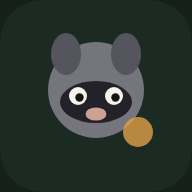
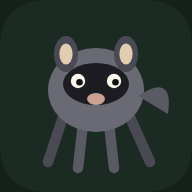
Make adult Jimothy match the viral short-spine raccoon look
Round compact body, long spindly legs, almost no neck — plus teen
foreshadowing, lope animation, and matching Dumpster Dive sprite.

Changed region(s): [[0.2188, 0.3125, 0.9062, 0.9062], [0.25, 0.1562, 0.75, 0.4062]]

diff --git a/js/raccoon.js b/js/raccoon.js
@@ -54,61 +54,102 @@ const RaccoonArt = (() => {
       <circle cx="88" cy="68" r="6" fill="#d9c4a8" opacity="0.35"/>
     `);
 
+  // Teen starts rounding out — foreshadowing the short-spine legend.
   const teen = () =>
     svg(`
-      <ellipse cx="60" cy="100" rx="34" ry="8" fill="#000" opacity="0.2"/>
-      <path d="M90 72 Q112 58 108 86 Q98 102 84 92" fill="#63636c"/>
-      <path d="M96 78 Q104 74 102 84" fill="none" stroke="#9a9aa4" stroke-width="3" stroke-linecap="round"/>
-      <ellipse cx="58" cy="74" rx="36" ry="30" fill="#6a6a74"/>
-      <circle cx="58" cy="40" r="27" fill="#767680"/>
-      <ellipse cx="34" cy="20" rx="10" ry="15" fill="#4f4f58"/>
-      <ellipse cx="82" cy="20" rx="10" ry="15" fill="#4f4f58"/>
-      <ellipse cx="34" cy="20" rx="5.5" ry="9" fill="#e6d0b4"/>
-      <ellipse cx="82" cy="20" rx="5.5" ry="9" fill="#e6d0b4"/>
-      <ellipse cx="58" cy="44" rx="23" ry="14" fill="#222228"/>
-      <circle cx="46" cy="40" r="4.5" fill="#f8f4ea"/>
-      <circle cx="70" cy="40" r="4.5" fill="#f8f4ea"/>
-      <circle cx="47" cy="40.5" r="2.2" fill="#121214"/>
-      <circle cx="71" cy="40.5" r="2.2" fill="#121214"/>
-      <circle cx="45.5" cy="39" r="1" fill="#fff" opacity="0.7"/>
-      <circle cx="69.5" cy="39" r="1" fill="#fff" opacity="0.7"/>
-      <ellipse cx="58" cy="50" rx="6.5" ry="4" fill="#c9a292"/>
-      <path d="M52 56 Q58 61 64 56" fill="none" stroke="#1e1e24" stroke-width="1.8"/>
-      <ellipse cx="38" cy="92" rx="10" ry="7" fill="#55555e"/>
-      <ellipse cx="78" cy="92" rx="10" ry="7" fill="#55555e"/>
-      <path d="M40 68 Q28 74 32 86" fill="none" stroke="#5a5a64" stroke-width="7" stroke-linecap="round"/>
+      <ellipse cx="60" cy="104" rx="30" ry="7" fill="#000" opacity="0.2"/>
+      <path d="M86 62 Q108 48 104 78 Q94 92 80 80" fill="#63636c"/>
+      <path d="M92 66 Q100 62 98 74 M94 72 Q102 68 100 80" fill="none" stroke="#9a9aa4" stroke-width="2.8" stroke-linecap="round"/>
+      <!-- longer legs -->
+      <path d="M42 70 L36 98" stroke="#55555e" stroke-width="5.5" stroke-linecap="round"/>
+      <path d="M54 72 L50 100" stroke="#5c5c64" stroke-width="5.5" stroke-linecap="round"/>
+      <path d="M68 72 L72 100" stroke="#5c5c64" stroke-width="5.5" stroke-linecap="round"/>
+      <path d="M78 70 L86 98" stroke="#55555e" stroke-width="5.5" stroke-linecap="round"/>
+      <ellipse cx="36" cy="100" rx="7" ry="4" fill="#4a4a54"/>
+      <ellipse cx="50" cy="102" rx="7" ry="4" fill="#4a4a54"/>
+      <ellipse cx="72" cy="102" rx="7" ry="4" fill="#4a4a54"/>
+      <ellipse cx="86" cy="100" rx="7" ry="4" fill="#4a4a54"/>
+      <!-- compact round body + head almost fused -->
+      <ellipse cx="60" cy="58" rx="30" ry="26" fill="#6a6a74"/>
+      <circle cx="60" cy="48" r="22" fill="#767680"/>
+      <ellipse cx="42" cy="30" rx="8" ry="12" fill="#4f4f58"/>
+      <ellipse cx="78" cy="30" rx="8" ry="12" fill="#4f4f58"/>
+      <ellipse cx="42" cy="30" rx="4.5" ry="7" fill="#e6d0b4"/>
+      <ellipse cx="78" cy="30" rx="4.5" ry="7" fill="#e6d0b4"/>
+      <ellipse cx="60" cy="50" rx="18" ry="12" fill="#222228"/>
+      <circle cx="50" cy="47" r="4" fill="#f8f4ea"/>
+      <circle cx="70" cy="47" r="4" fill="#f8f4ea"/>
+      <circle cx="51" cy="47.5" r="2" fill="#121214"/>
+      <circle cx="71" cy="47.5" r="2" fill="#121214"/>
+      <ellipse cx="60" cy="56" rx="5.5" ry="3.5" fill="#c9a292"/>
+      <path d="M54 60 Q60 64 66 60" fill="none" stroke="#1e1e24" stroke-width="1.6"/>
     `);
 
+  /**
+   * Adult Jimothy — the viral short-spine silhouette:
+   * round compact body, almost no neck, long spindly legs.
+   */
   const adult = (variant = "noble") => {
     const accent = variant === "rascal" ? "#d9844a" : "#6fbf84";
-    const smirk =
+    const mouth =
       variant === "rascal"
-        ? `<path d="M50 56 Q58 54 66 58" fill="none" stroke="#1e1e24" stroke-width="2"/>`
-        : `<path d="M50 56 Q58 62 66 56" fill="none" stroke="#1e1e24" stroke-width="2"/>`;
+        ? `<path d="M54 52 Q60 50 66 54" fill="none" stroke="#1e1e24" stroke-width="1.8"/>`
+        : `<path d="M54 53 Q60 57 66 53" fill="none" stroke="#1e1e24" stroke-width="1.8"/>`;
+    const flair =
+      variant === "rascal"
+        ? `<g opacity="0.9">
+            <path d="M78 40 l10 14 -12 2 z" fill="#e0a04a"/>
+            <path d="M80 44 h8" stroke="#c45c4a" stroke-width="2"/>
+          </g>`
+        : `<g opacity="0.85">
+            <ellipse cx="78" cy="36" rx="7" ry="4" fill="${accent}" transform="rotate(-20 78 36)"/>
+            <path d="M72 36 Q78 28 84 36" fill="none" stroke="#3d6b4f" stroke-width="1.5"/>
+          </g>`;
+
     return svg(`
-      <ellipse cx="60" cy="104" rx="38" ry="8" fill="#000" opacity="0.22"/>
-      <path d="M92 70 Q118 50 114 84 Q104 108 86 94" fill="#5e5e68"/>
-      <path d="M98 76 Q108 68 106 82 M100 84 Q108 78 106 90" fill="none" stroke="#a0a0aa" stroke-width="3.2" stroke-linecap="round"/>
-      <ellipse cx="56" cy="72" rx="40" ry="34" fill="#686872"/>
-      <circle cx="56" cy="36" r="30" fill="#74747e"/>
-      <ellipse cx="30" cy="14" rx="11" ry="16" fill="#4a4a54"/>
-      <ellipse cx="82" cy="14" rx="11" ry="16" fill="#4a4a54"/>
-      <ellipse cx="30" cy="14" rx="6" ry="10" fill="#e8d2b6"/>
-      <ellipse cx="82" cy="14" rx="6" ry="10" fill="#e8d2b6"/>
-      <ellipse cx="56" cy="40" rx="25" ry="15" fill="#1f1f26"/>
-      <circle cx="43" cy="36" r="5" fill="#faf6ec"/>
-      <circle cx="69" cy="36" r="5" fill="#faf6ec"/>
-      <circle cx="44.2" cy="36.6" r="2.4" fill="#101014"/>
-      <circle cx="70.2" cy="36.6" r="2.4" fill="#101014"/>
-      <circle cx="42.5" cy="35" r="1.1" fill="#fff" opacity="0.75"/>
-      <circle cx="68.5" cy="35" r="1.1" fill="#fff" opacity="0.75"/>
-      <ellipse cx="56" cy="47" rx="7.5" ry="4.5" fill="#c9a292"/>
-      ${smirk}
-      <ellipse cx="34" cy="94" rx="12" ry="8" fill="#505058"/>
-      <ellipse cx="78" cy="94" rx="12" ry="8" fill="#505058"/>
-      <path d="M34 66 Q18 74 24 90" fill="none" stroke="#565660" stroke-width="8" stroke-linecap="round"/>
-      <circle cx="78" cy="62" r="7" fill="${accent}" opacity="0.55"/>
-      <path d="M74 58 L82 58 M78 54 L78 62" stroke="#142019" stroke-width="1.5" opacity="0.35"/>
+      <ellipse cx="60" cy="108" rx="34" ry="6" fill="#000" opacity="0.22"/>
+
+      <!-- ringed tail out back -->
+      <path d="M88 58 Q112 42 108 70 Q100 86 84 74" fill="#5a5a64"/>
+      <path d="M94 56 Q104 48 102 62 M96 64 Q106 58 104 72 M98 72 Q106 68 104 80"
+            fill="none" stroke="#b0b0ba" stroke-width="3" stroke-linecap="round"/>
+
+      <!-- long front + hind legs (the signature lope) -->
+      <path d="M40 62 L28 102" stroke="#4f4f58" stroke-width="6" stroke-linecap="round"/>
+      <path d="M52 66 L46 104" stroke="#5a5a64" stroke-width="6" stroke-linecap="round"/>
+      <path d="M68 66 L74 104" stroke="#5a5a64" stroke-width="6" stroke-linecap="round"/>
+      <path d="M80 62 L94 102" stroke="#4f4f58" stroke-width="6" stroke-linecap="round"/>
+      <ellipse cx="28" cy="104" rx="8" ry="4.5" fill="#3a3a44"/>
+      <ellipse cx="46" cy="106" rx="8" ry="4.5" fill="#3a3a44"/>
+      <ellipse cx="74" cy="106" rx="8" ry="4.5" fill="#3a3a44"/>
+      <ellipse cx="94" cy="104" rx="8" ry="4.5" fill="#3a3a44"/>
+
+      <!-- one round potato body — head fused, short spine silhouette -->
+      <ellipse cx="60" cy="52" rx="34" ry="30" fill="#6a6a74"/>
+      <ellipse cx="48" cy="44" rx="10" ry="8" fill="#7a7a84" opacity="0.35"/>
+
+      <!-- ears perched on the orb -->
+      <ellipse cx="38" cy="26" rx="8" ry="12" fill="#4a4a54"/>
+      <ellipse cx="82" cy="26" rx="8" ry="12" fill="#4a4a54"/>
+      <ellipse cx="38" cy="26" rx="4.5" ry="7" fill="#e2cdb2"/>
+      <ellipse cx="82" cy="26" rx="4.5" ry="7" fill="#e2cdb2"/>
+
+      <!-- bandit mask across the front of the round body -->
+      <ellipse cx="60" cy="46" rx="22" ry="13" fill="#1c1c22"/>
+      <circle cx="48" cy="44" r="5" fill="#faf6ec"/>
+      <circle cx="72" cy="44" r="5" fill="#faf6ec"/>
+      <circle cx="49.2" cy="44.6" r="2.4" fill="#101014"/>
+      <circle cx="73.2" cy="44.6" r="2.4" fill="#101014"/>
+      <circle cx="47.5" cy="43" r="1.1" fill="#fff" opacity="0.8"/>
+      <circle cx="71.5" cy="43" r="1.1" fill="#fff" opacity="0.8"/>
+
+      <ellipse cx="60" cy="54" rx="6.5" ry="4" fill="#c9a292"/>
+      ${mouth}
+      ${flair}
+
+      <!-- tiny whisker ticks -->
+      <path d="M40 52 h-8 M40 56 h-7 M80 52 h8 M80 56 h7"
+            stroke="#d0d0d8" stroke-width="1.2" stroke-linecap="round" opacity="0.55"/>
     `);
   };
 

diff --git a/js/game.js b/js/game.js
@@ -242,14 +242,18 @@
         state.healthyMeals >= 3 &&
         state.discipline >= 45;
       state.adultVariant = goodCare ? "noble" : "rascal";
-      const title = goodCare ? "Noble Jimothy" : "Rascal Jimothy";
+      const title = goodCare ? "Saint Jimothy" : "Legend Jimothy";
       STAGE_META.adult.name = title;
-      say(goodCare ? "He became Noble Jimothy!" : "He became Rascal Jimothy!");
+      say(
+        goodCare
+          ? "Behold — Saint Jimothy, short-spine legend!"
+          : "Behold — Legend Jimothy, Ballard’s dumpster cryptid!"
+      );
       showMessage(
         "Fully Grown!",
         goodCare
-          ? "Your care paid off — Noble Jimothy tip-toes with class (and still steals snacks)."
-          : "Chaos wins — Rascal Jimothy is a dumpster legend with a mischievous streak."
+          ? "He grew into the famous look: round body, long lope, zero neck. Saint Jimothy has entered the chat."
+          : "He grew into the famous look: round body, long lope, zero neck. Legend Jimothy is ready for the headlines."
       );
     }
     if (prev !== state.stage) save();
@@ -308,7 +312,7 @@
     $("ageLabel").textContent = formatAge();
     const meta = STAGE_META[state.stage];
     if (state.stage === "adult") {
-      meta.name = state.adultVariant === "noble" ? "Noble Jimothy" : "Rascal Jimothy";
+      meta.name = state.adultVariant === "noble" ? "Saint Jimothy" : "Legend Jimothy";
     }
     $("stageChip").textContent = meta.label;
     $("stageName").textContent = state.alive ? meta.name : "Gone to the woods…";
@@ -321,6 +325,10 @@
     const wrap = $("raccoonWrap");
     wrap.classList.toggle("stubborn", state.stubborn && state.alive);
     wrap.classList.toggle("sick", state.sick && state.alive);
+    wrap.classList.toggle(
+      "jimothy-lope",
+      state.alive && state.stage === "adult" && !state.stubborn && !state.sick
+    );
     $("raccoon").dataset.stage = state.stage;
     $("raccoon").dataset.mood = state.stubborn ? "stubborn" : state.sick ? "sick" : "idle";
     $("raccoon").innerHTML = state.alive
@@ -577,13 +585,14 @@
     wireIcons();
     bind();
     load();
+    save({ touchTick: false });
     if (!localStorage.getItem(STORAGE_KEY)) {
       say("A warm egg. Something wiggles inside…");
     }
     // Ensure adult name meta is correct after load
     if (state.stage === "adult") {
       STAGE_META.adult.name =
-        state.adultVariant === "noble" ? "Noble Jimothy" : "Rascal Jimothy";
+        state.adultVariant === "noble" ? "Saint Jimothy" : "Legend Jimothy";
     }
     render();
     if (!state.alive) {

diff --git a/js/minigame.js b/js/minigame.js
@@ -299,43 +299,56 @@ const DumpsterDive = (() => {
   function drawPlayer(x, y) {
     ctx.save();
     ctx.translate(x, y);
-    // body
-    ctx.fillStyle = "#6f6f78";
+    // Short-spine Jimothy: round body, long legs, almost no neck
+    ctx.strokeStyle = "#4f4f58";
+    ctx.lineWidth = 5;
+    ctx.lineCap = "round";
     ctx.beginPath();
-    ctx.ellipse(0, 4, 22, 16, 0, 0, Math.PI * 2);
+    ctx.moveTo(-12, 0);
+    ctx.lineTo(-18, 16);
+    ctx.moveTo(-4, 2);
+    ctx.lineTo(-6, 18);
+    ctx.moveTo(4, 2);
+    ctx.lineTo(6, 18);
+    ctx.moveTo(12, 0);
+    ctx.lineTo(18, 16);
+    ctx.stroke();
+    ctx.fillStyle = "#3a3a44";
+    ctx.beginPath();
+    ctx.ellipse(-18, 18, 5, 3, 0, 0, Math.PI * 2);
+    ctx.ellipse(-6, 20, 5, 3, 0, 0, Math.PI * 2);
+    ctx.ellipse(6, 20, 5, 3, 0, 0, Math.PI * 2);
+    ctx.ellipse(18, 18, 5, 3, 0, 0, Math.PI * 2);
     ctx.fill();
-    // head
-    ctx.fillStyle = "#7a7a84";
+    // round body / head fused
+    ctx.fillStyle = "#6a6a74";
     ctx.beginPath();
-    ctx.arc(0, -14, 14, 0, Math.PI * 2);
+    ctx.ellipse(0, -4, 20, 17, 0, 0, Math.PI * 2);
+    ctx.fill();
+    // ears
+    ctx.fillStyle = "#4a4a54";
+    ctx.beginPath();
+    ctx.ellipse(-12, -18, 4, 6, -0.15, 0, Math.PI * 2);
+    ctx.ellipse(12, -18, 4, 6, 0.15, 0, Math.PI * 2);
     ctx.fill();
     // mask
-    ctx.fillStyle = "#222228";
+    ctx.fillStyle = "#1c1c22";
     ctx.beginPath();
-    ctx.ellipse(0, -12, 12, 7, 0, 0, Math.PI * 2);
+    ctx.ellipse(0, -6, 14, 8, 0, 0, Math.PI * 2);
     ctx.fill();
-    // eyes
     ctx.fillStyle = "#f7f3e8";
     ctx.beginPath();
-    ctx.arc(-5, -13, 2.5, 0, Math.PI * 2);
-    ctx.arc(5, -13, 2.5, 0, Math.PI * 2);
+    ctx.arc(-5, -7, 2.6, 0, Math.PI * 2);
+    ctx.arc(5, -7, 2.6, 0, Math.PI * 2);
     ctx.fill();
     ctx.fillStyle = "#121214";
     ctx.beginPath();
-    ctx.arc(-4.5, -12.5, 1.2, 0, Math.PI * 2);
-    ctx.arc(5.5, -12.5, 1.2, 0, Math.PI * 2);
+    ctx.arc(-4.5, -6.5, 1.2, 0, Math.PI * 2);
+    ctx.arc(5.5, -6.5, 1.2, 0, Math.PI * 2);
     ctx.fill();
-    // ears
-    ctx.fillStyle = "#55555e";
+    ctx.fillStyle = "#c9a292";
     ctx.beginPath();
-    ctx.ellipse(-10, -24, 4, 6, -0.2, 0, Math.PI * 2);
-    ctx.ellipse(10, -24, 4, 6, 0.2, 0, Math.PI * 2);
-    ctx.fill();
-    // paws
-    ctx.fillStyle = "#5c5c64";
-    ctx.beginPath();
-    ctx.ellipse(-16, 14, 7, 5, 0, 0, Math.PI * 2);
-    ctx.ellipse(16, 14, 7, 5, 0, 0, Math.PI * 2);
+    ctx.ellipse(0, -1, 4, 2.5, 0, 0, Math.PI * 2);
     ctx.fill();
     ctx.restore();
   }

diff --git a/styles.css b/styles.css
@@ -333,6 +333,18 @@ button {
   50% { transform: translateY(-6px); }
 }
 
+/* Adult Jimothy — short-spine scamper / lope */
+.raccoon-wrap.jimothy-lope {
+  animation: jimothy-lope 1.1s ease-in-out infinite;
+}
+
+@keyframes jimothy-lope {
+  0%, 100% { transform: translateY(0) rotate(-1.5deg); }
+  25% { transform: translateY(-7px) rotate(1deg); }
+  50% { transform: translateY(-2px) rotate(-0.5deg); }
+  75% { transform: translateY(-9px) rotate(1.5deg); }
+}
+
 @keyframes stomp {
   from { transform: translateX(-3px) rotate(-2deg); }
   to { transform: translateX(3px) rotate(2deg); }

diff --git a/sw.js b/sw.js
@@ -1,5 +1,5 @@
 /* Jimothy service worker — offline shell for installed web / Android PWA */
-const CACHE = "jimothy-v1";
+const CACHE = "jimothy-v2";
 const ASSETS = [
   "./",
   "./index.html",

diff --git a/README.md b/README.md
@@ -44,7 +44,7 @@ Leaving him alone too long can drain meters and send him back to the woods, just
 2. **Peep Jimothy** — hatchling  
 3. **Kit Jimothy** — playful kit  
 4. **Teen Jimothy** — sassier, more refusals  
-5. **Adult** — **Noble Jimothy** (good care) or **Rascal Jimothy** (chaos path)
+5. **Adult** — the viral short-spine look (**Saint Jimothy** with good care, or **Legend Jimothy** on the chaos path)
 
 ## Stack
 
